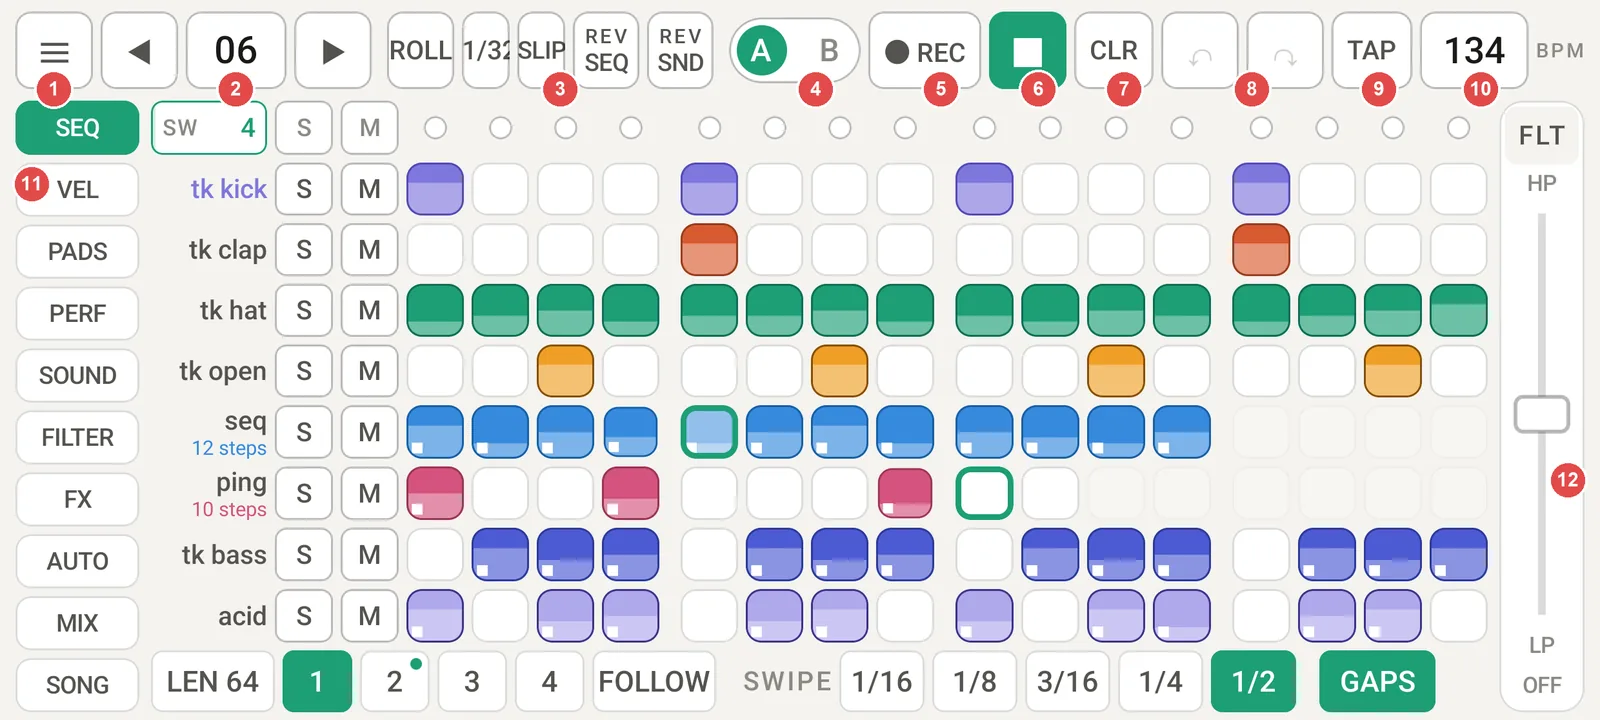
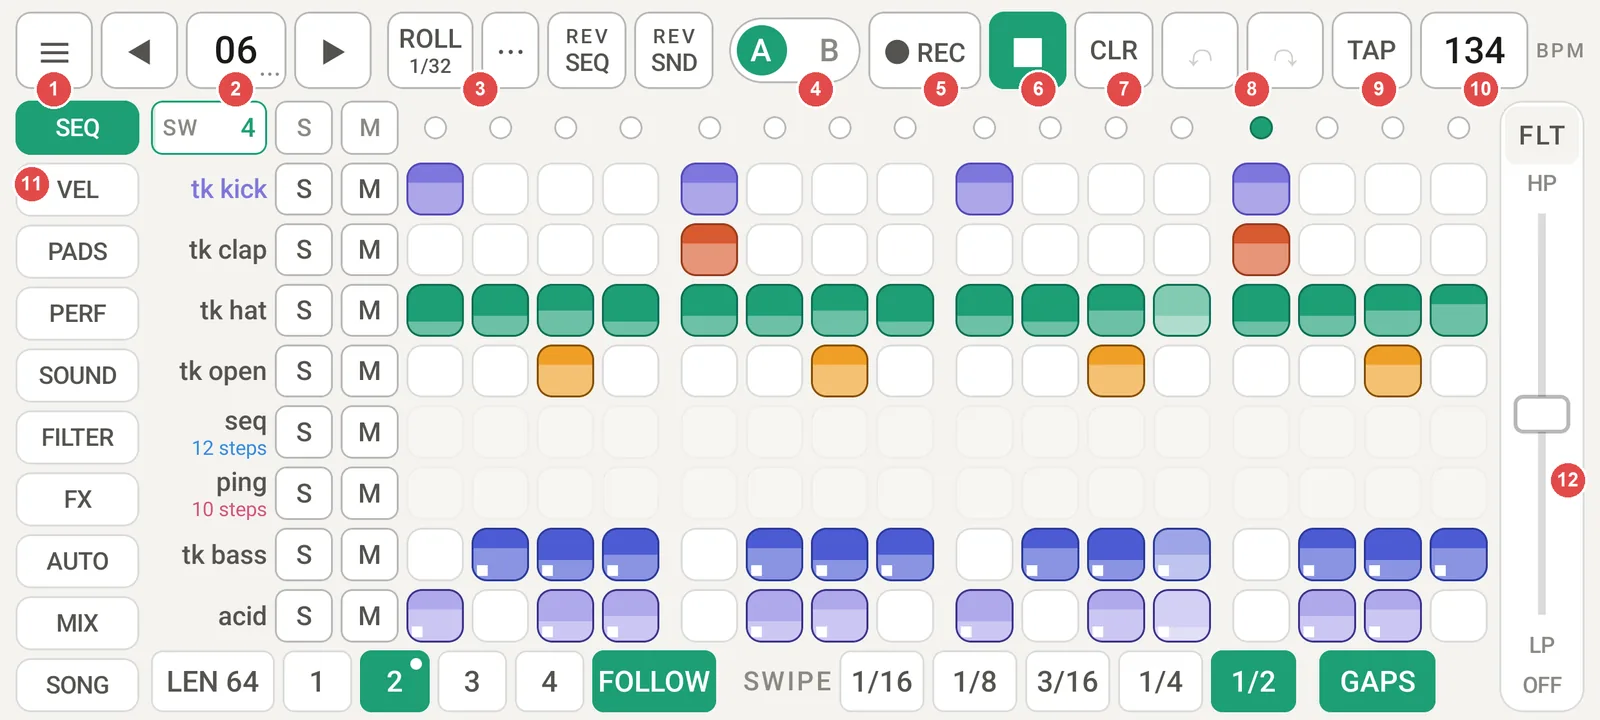
説明書: スマホの画面の見直し（≡ と Settings…・パターンの一覧・PADS の長押しと ERASE）・スマホの画像
Claude-Session: https://claude.ai/code/session_014nrG8LAda3EPv8TQp5hzGz

diff --git a/dbr1/manual/ja.html b/dbr1/manual/ja.html
@@ -44,7 +44,7 @@
 <tr><th class="n">#</th><th>名前</th><th>はたらき</th></tr>
 <tr><td class="n"><span class="num">1</span></td><td>ロゴ</td><td>タップでメニュー: この説明書（<b>Manual</b>）、デモソング（<b>Demo songs…</b>）、ジャンルのテンプレート（<b>Templates…</b>）、設定（<b>Settings…</b>）、このアプリについて（<b>About</b>）。<b>Settings…</b> には、MIDI の設定（MIDI…）・オーディオの入出力（Audio I/O…）、STOP の後の PLAY を頭から / 続きから（After STOP）、再生中のパターンの切り替えのタイミング（Pattern switch）、トラック名に触れたとき・ステップを入れたときに音を鳴らすか（Sound on track tap / Sound on step input）、オートメーションの動きの表示（Animate automation）、スマートフォンと同じ配置にする（Phone layout）が、それぞれ短い説明つきで並びます。初めて起動したときは、デモ曲を聴く / テンプレートから始める / そのまま始める、を選ぶカードが出ます。メニューの先頭に、開いているプロジェクトの名前が出ます（PROJECT: …）</td></tr>
 <tr><td class="n"><span class="num">2</span></td><td>SAVE / LOAD</td><td>プロジェクト・パターン・キットの保存と読み込み（→ <a href="#save">10</a>）。LOAD の Templates… でジャンルの定番ビート（→ <a href="#templates">2</a>）、Demo songs… でデモソング（→ <a href="#demosongs">2</a>）。LOAD の先頭の <b>New project…</b> で空のプロジェクトを始めます（全パターン・ソングを空に、キットを内蔵の音に、BPM 120。先に保存するかを選べ、↶ で戻せます）。SAVE → Project の名前は、開いているプロジェクト（読み込んだ・保存したファイル、デモ曲なら曲名）の名前が最初から入るので、そのまま OK で上書きできます</td></tr>
-<tr><td class="n"><span class="num">3</span></td><td>パターン番号</td><td>◀ ▶ で切り替え（00〜99）。タップで<b>パターンの一覧</b>（10 × 10。中身のある番号は色付き、今の番号は緑。タップで切り替え。スマートフォンはタップで直接入力）。長押しでメニュー: <b>Duplicate to next empty</b>（今のパターンを次の空いた番号へ写してそこへ移る。バリエーション作りに）、コピー / ペースト / 消去、FX だけのコピー / ペースト。一覧の上にも Duplicate to next empty があります。メニューの <b>Rename…</b> でパターンに名前（「Intro」「Drop」など、12 文字まで）を付けると、パターンの一覧に出ます</td></tr>
+<tr><td class="n"><span class="num">3</span></td><td>パターン番号</td><td>◀ ▶ で切り替え（00〜99）。タップで<b>パターンの一覧</b>（10 × 10。中身のある番号は色付き、今の番号は緑。タップで切り替え。スマートフォンも同じ一覧が画面の真ん中に出ます）。長押しでメニュー: <b>Duplicate to next empty</b>（今のパターンを次の空いた番号へ写してそこへ移る。バリエーション作りに）、コピー / ペースト / 消去、FX だけのコピー / ペースト。一覧の上にも Duplicate to next empty があります。メニューの <b>Rename…</b> でパターンに名前（「Intro」「Drop」など、12 文字まで）を付けると、パターンの一覧に出ます</td></tr>
 <tr><td class="n"><span class="num">4</span></td><td>SEQ / MIX / AUTO / PERF / SONG</td><td>左の大きな場所に出す画面の切り替え（今の画面が点灯）。SEQ = ステップ、MIX = ミキサー（→ <a href="#mixer">ミキサー</a>）、AUTO = オートメーション（→ <a href="#automation">オートメーション</a>）、PERF = パフォーマンス画面（→ <a href="#performscreen">7</a>）、SONG = ソングの画面（→ <a href="#songscreen">8</a>）。SEQ 以外の画面では、端末の「戻る」でその画面を閉じます</td></tr>
 <tr><td class="n"><span class="num">5</span></td><td>BANK A / B</td><td>表示するトラック（A01〜A08 / B01〜B08）の切り替え。今のバンクは、トラックの並びの背景の色（A = 緑、B = 紫）と左の帯でも分かります。パッドで別のバンクのトラックを選ぶとバンクも切り替わり、スイッチと帯が少しの間光ります</td></tr>
 <tr><td class="n"><span class="num">6</span></td><td>REC</td><td>録音の待機。点灯中に再生してパッドを叩くと、ステップに記録されます（→ <a href="#rec">4</a>）</td></tr>
@@ -70,20 +70,20 @@
 <figure><img src="img/phone_overview.webp" alt="スマートフォンの画面"></figure>
 <table>
 <tr><th class="n">#</th><th>名前</th><th>はたらき</th></tr>
-<tr><td class="n"><span class="num">1</span></td><td>≡ メニュー</td><td>保存・読み込み、メトロノーム、Manual、MIDI…、Audio I/O…、Animate automation、Sound on track tap、Sound on step input、After STOP、Pattern switch、About。タブレットで Phone layout にしているときは、いちばん上の <b>Tablet layout</b> で元の配置に戻ります</td></tr>
+<tr><td class="n"><span class="num">1</span></td><td>≡ メニュー</td><td>いちばん上に開いているプロジェクトの名前（PROJECT: …）。保存・読み込み、メトロノーム、Manual、<b>Settings…</b>（MIDI…・Audio I/O…・After STOP・Pattern switch・Sound on track tap / step input・Animate automation・タブの並びを元に戻す。タブレットと同じ画面）、About。タブレットで Phone layout にしているときは、いちばん上の <b>Tablet layout</b> で元の配置に戻ります</td></tr>
 <tr><td class="n"><span class="num">2</span></td><td>パターン番号</td><td>タブレットと同じ</td></tr>
-<tr><td class="n"><span class="num">3</span></td><td>ROLL・長さ・SLIP・REV</td><td>長さはタップで 1/4 → 1/8 → 1/16 → 1/32 と切り替え</td></tr>
+<tr><td class="n"><span class="num">3</span></td><td>ROLL・⋯・REV</td><td>ROLL の下に今の長さ（SLIP が ON なら「S」）。<span class="key">⋯</span> でロールの長さ（1/4〜1/32）と SLIP を選びます</td></tr>
 <tr><td class="n"><span class="num">4〜10</span></td><td>BANK・REC・▶・CLR・↶↷・TAP・BPM</td><td>タブレットと同じ</td></tr>
-<tr><td class="n"><span class="num">11</span></td><td>画面の切り替え</td><td>SEQ（ステップ）/ VEL / PADS / PERF（パフォーマンス画面、→ <a href="#performscreen">7</a>）/ SOUND / FILTER / FX / AUTO（オートメーション）/ MIX（ミキサー）/ SONG。<b>長押し（振動）して上下にドラッグ</b>すると並びを入れ替えられます（ジャンルや作り方に合わせて。端末に保存、≡ の「Reset tab order」で元の並びに）。端末の「戻る」は、SEQ 以外の画面なら SEQ に戻り、SEQ のときはアプリを閉じます</td></tr>
+<tr><td class="n"><span class="num">11</span></td><td>画面の切り替え</td><td>SEQ（ステップ）/ VEL / PADS / PERF（パフォーマンス画面、→ <a href="#performscreen">7</a>）/ SOUND / FILTER / FX / AUTO（オートメーション）/ MIX（ミキサー）/ SONG。<b>長押し（振動）して上下にドラッグ</b>すると並びを入れ替えられます（ジャンルや作り方に合わせて。端末に保存、≡ → Settings… の Tab order の Reset で元の並びに）。端末の「戻る」は、SEQ 以外の画面なら SEQ に戻り、SEQ のときはアプリを閉じます</td></tr>
 <tr><td class="n"><span class="num">12</span></td><td>FLT</td><td>全体フィルター / USER（PERF 以外のどの画面でも使えます）</td></tr>
 </table>
 <div class="cols">
-<figure><img src="img/phone_pads.webp" alt="PADS 画面"><figcaption>PADS: 16 個のパッド</figcaption></figure>
+<figure><img src="img/phone_pads.webp" alt="PADS 画面"><figcaption>PADS: 16 個のパッド。止まっているときの長押しで音のメニュー（Sounds… / Record / Generate… など）、下の ERASE を押さえたままパッドを押さえると、そのトラックの鳴った所を消します</figcaption></figure>
 <figure><img src="img/phone_sound.webp" alt="SOUND 画面"><figcaption>SOUND など: 左のリストでトラックを選んで設定</figcaption></figure>
 <figure><img src="img/phone_mix.webp" alt="MIX 画面"><figcaption>MIX: ミキサー（EQ はボタンでフェーダーと切り替え）</figcaption></figure>
 </div>
 <div class="tip">タブレットでも、ロゴのメニューの Settings… の <b>Phone layout</b> でこの配置にできます（ボタンや文字はスマートフォンより大きめ、1 画面ずつ大きく表示。PADS のパッドが大きくなるので演奏向き）。端末ごとに保存され、≡ のメニューの <b>Tablet layout</b> で戻ります。</div>
-<div class="tip">横幅の狭いスマートフォンでは、ROLL の横の <span class="key">⋯</span> にロールの長さ・SLIP・REV がまとまります。パターン番号の ◀ ▶ は省かれるので、数字をタップして入力してください。</div>
+<div class="tip">横幅の狭いスマートフォンでは、REV SEQ / REV SND も ROLL の横の <span class="key">⋯</span> にまとまります。パターン番号の ◀ ▶ は省かれるので、数字のタップで一覧から選んでください。</div>
 </section>
 
 <!-- ============================================================ -->
@@ -173,7 +173,7 @@
 <ul>
   <li><b>S（ソロ）</b>: バンクの中でソロのトラックだけを鳴らします。<b>M（ミュート）</b>: 鳴らしません。</li>
   <li><b>ALL S / ALL M</b>: 表示中のバンクをまとめて切り替えます（1 つでも ON なら全部 OFF、なければ全部 ON）。</li>
-  <li>トラック名をタップすると、そのトラックの音が鳴ります。止まっているときにステップを入れたときも、その強さで鳴ります（再生中は、シーケンサがその位置で鳴らします）。鳴らしたくないとき（演奏中に触っても邪魔にならないように）は、ロゴのメニューの Settings…（スマートフォンは ≡ のメニュー）の <b>Sound on track tap</b>・<b>Sound on step input</b> を OFF にしてください。</li>
+  <li>トラック名をタップすると、そのトラックの音が鳴ります。止まっているときにステップを入れたときも、その強さで鳴ります（再生中は、シーケンサがその位置で鳴らします）。鳴らしたくないとき（演奏中に触っても邪魔にならないように）は、ロゴのメニューの Settings…（スマートフォンは ≡ → Settings…）の <b>Sound on track tap</b>・<b>Sound on step input</b> を OFF にしてください。</li>
   <li>色は名前と同じくキット（音の設定）の一部です。プロジェクト・キットのファイルに保存され、↶ で戻せます。Swap with… で入れ替えると色も一緒に移り、LOAD の「Built-in kit」で最初の色に戻ります。</li>
 </ul>
 <h3 id="triplet">3 連符（Steps）</h3>
@@ -453,7 +453,7 @@
 <ul>
   <li><b>CHANNEL</b>: 送るチャンネル。<b>複数選べます</b>（数字のタップで足す / 外す。例: 1・3・10 に同じものを送る）。<b>ALL</b> は 1〜16 の全部（もう一度押すと 1 だけに戻る）。最後の 1 つは外せません。部品には「CH 1,3,10」「CH 1-4,10」（1〜4 と 10）のように番号で表示し、4 つ以上に分かれるときは「CH 1,3 +3」（ほかに 3 つ）と出ます。</li>
   <li><b>CC NUMBER / NOTE / PROGRAM</b>: 送る番号（0〜127）。ノートは音名も出ます（60 = C4）。</li>
-  <li><b>SEND TO</b>: 送り先。<b>複数選べます</b>（タップで足す / 外す。1 つの部品で 2 台のシンセを同時に動かす、など）。<b>MIDI OUTPUT</b>（既定）= ロゴのメニューの Settings…（スマートフォンは ≡ のメニュー）の「MIDI…」の OUT で選んだ機器。ほかに、つながっている機器を部品ごとに選べます。出力が 2 つ以上ある MIDI インターフェースは「機器名 · OUT 2」のようにポートごとに出るので、シンセ A は OUT 1、エフェクター B は OUT 2、のように分けられます。送れないとき（出力を選んでいない・機器がつながっていない）は設定の画面に赤い字で出ます。</li>
+  <li><b>SEND TO</b>: 送り先。<b>複数選べます</b>（タップで足す / 外す。1 つの部品で 2 台のシンセを同時に動かす、など）。<b>MIDI OUTPUT</b>（既定）= ロゴのメニューの Settings…（スマートフォンは ≡ → Settings…）の「MIDI…」の OUT で選んだ機器。ほかに、つながっている機器を部品ごとに選べます。出力が 2 つ以上ある MIDI インターフェースは「機器名 · OUT 2」のようにポートごとに出るので、シンセ A は OUT 1、エフェクター B は OUT 2、のように分けられます。送れないとき（出力を選んでいない・機器がつながっていない）は設定の画面に赤い字で出ます。</li>
   <li>ON RELEASE の RETURN: CC・AFTERTOUCH は触る前の値へ、CC PAN・PITCH BEND は真ん中へ戻ります（ピッチベンドのホイールのように使えます）。</li>
   <li>フェーダー・ノブの位置は保存しません（アプリを開き直すと 0、PAN・BEND は真ん中から）。同じ値は続けて送りません。</li>
   <li>シーケンスの MIDI 出力（MIDI… の OUTPUT CHANNEL）とは別に送るので、シーケンスを外部の音源で鳴らしながら、別のチャンネルのつまみを動かせます。MIDI クロックを SEND にすれば、DBR-1 のテンポに機材を合わせられます。</li>
@@ -467,13 +467,13 @@
 <section id="pattern">
 <h2>8. パターンとソング</h2>
 <div class="cols">
-<figure class="small"><img src="img/pattern_picker.webp" alt="pattern list"><figcaption>パターン番号のタップ（タブレット）: パターンの一覧。色の付いた番号に中身があります</figcaption></figure>
+<figure class="small"><img src="img/pattern_picker.webp" alt="pattern list"><figcaption>パターン番号のタップ: パターンの一覧。色の付いた番号に中身があります</figcaption></figure>
 <figure class="small"><img src="img/pattern_menu.webp" alt="パターン番号のメニュー"><figcaption>パターン番号の長押しメニュー</figcaption></figure>
 <div>
 <ul>
   <li>パターンは 00〜99 の 100 個。各パターンがステップ・ベロシティ・長さ・スウィング・テンポ・エフェクトの設定・オートメーションを持ちます（音のキットは共通）。</li>
   <li>再生中にパターン番号を変えると、既定では<b>小節（パターン）の終わり</b>で切り替わります（待っている番号は枠が光ります）。停止中はすぐ切り替わります。</li>
-  <li>ロゴのメニューの Settings…（スマホは ≡ のメニュー）の <b>Pattern switch</b> で、再生中に切り替わるタイミングを選べます（タブレットは BAR / BEAT / NOW のボタン、スマホはタップで BAR → BEAT → NOW）。<b>BAR</b>（既定）= パターンの終わりで、次のパターンの頭から / <b>BEAT</b> = 次の拍で / <b>NOW</b> = 次の 16 分で。BEAT と NOW は再生位置をそのままに中身だけ入れ替えるので、リズムが途切れません（次のパターンのほうが短ければ、その長さで折り返した位置から）。パフォーマンス画面の PATTERN ボタンと合わせると、パターンを使ったリアルタイムの演奏ができます。</li>
+  <li>ロゴのメニューの Settings…（スマホは ≡ → Settings…）の <b>Pattern switch</b> で、再生中に切り替わるタイミングを選べます（BAR / BEAT / NOW のボタン）。<b>BAR</b>（既定）= パターンの終わりで、次のパターンの頭から / <b>BEAT</b> = 次の拍で / <b>NOW</b> = 次の 16 分で。BEAT と NOW は再生位置をそのままに中身だけ入れ替えるので、リズムが途切れません（次のパターンのほうが短ければ、その長さで折り返した位置から）。パフォーマンス画面の PATTERN ボタンと合わせると、パターンを使ったリアルタイムの演奏ができます。</li>
   <li>長押しで、パターン全体のコピー / ペースト / 消去。<b>Copy FX only / Paste FX only</b> で、FX の設定（シーン A / B・センド量）だけを別のパターンへ写せます（ステップはそのまま、↶ で戻せます）。</li>
 </ul>
 </div>
@@ -481,7 +481,7 @@
 <h3>ソング（SONG タブ）</h3>
 <figure class="small"><img src="img/tab_song.webp" alt="SONG タブ"></figure>
 <ul>
-  <li><span class="key">+ ADD</span> で行を追加します（タブレットはパターンの一覧から選んで足す。行のパターン番号のタップでも一覧から選び直せます。スマートフォンは今のパターン）。各行は「パターン番号 × くり返す回数」（最大 99 行）。▲▼ で並べ替え、✕ で削除。</li>
+  <li><span class="key">+ ADD</span> で行を追加します（パターンの一覧から選んで足す。行のパターン番号のタップでも一覧から選び直せます）。各行は「パターン番号 × くり返す回数」（最大 99 行）。▲▼ で並べ替え、✕ で削除。</li>
   <li><b>PLAY: SONG</b> にしてから PLAY を押すと、並べた順に再生します。最後まで行ったときの動きは隣のボタンで選びます: <b>↻ LOOP</b> = 先頭に戻ってくり返す（既定）、<b>→ ONCE</b> = 1 回で止める。この設定はプロジェクトに保存されます。再生中に PATTERN ⇄ SONG を切り替えると、再生は止まります。</li>
 </ul>
 <h3 id="songscreen">ソングの画面（タブレット: ヘッダーの SONG）</h3>
@@ -520,7 +520,7 @@
   <li>優先の順は「動かしている最中のつまみ ＞ ロック ＞ 線 ＞ 元の値」です（メインフェーダーの USER は、その結果に足し引きします）。</li>
   <li>↶（元に戻す）で取り消せます。CLEAR（ヘッダー）はステップと一緒にロックも消し、線は残します。</li>
 </ul>
-<div class="tip">再生中は、オートメーションで動いている値が SOUND・FILTER・FX のつまみ、ミキサーの pan・EQ・フェーダー、全体フィルターのフェーダーにも表示されます。性能の低い端末で画面が重いときは、ロゴのメニューの Settings…（スマートフォンは ≡ のメニュー）の <b>Animate automation</b> を OFF にすると表示だけを止められます（音は変わりません。端末ごとの設定）。<br>ロックは Elektron のパラメーターロックに近い動きです。トラックごとの長さ（ポリリズム）を設定したトラックでは、DRAW の線の位置もそのトラックのステップで数えます。</div>
+<div class="tip">再生中は、オートメーションで動いている値が SOUND・FILTER・FX のつまみ、ミキサーの pan・EQ・フェーダー、全体フィルターのフェーダーにも表示されます。性能の低い端末で画面が重いときは、ロゴのメニューの Settings…（スマートフォンは ≡ → Settings…）の <b>Animate automation</b> を OFF にすると表示だけを止められます（音は変わりません。端末ごとの設定）。<br>ロックは Elektron のパラメーターロックに近い動きです。トラックごとの長さ（ポリリズム）を設定したトラックでは、DRAW の線の位置もそのトラックのステップで数えます。</div>
 </section>
 
 <!-- ============================================================ -->
@@ -607,7 +607,7 @@
 <!-- ============================================================ -->
 <section id="midi">
 <h2>11. MIDI と USB オーディオ</h2>
-<p>USB-MIDI の機器（パッドコントローラー・キーボード・オーディオインターフェースの MIDI 端子など）を USB でつなぐと、自動で使えるようになります。設定はロゴのメニューの Settings…（スマートフォンは ≡ のメニュー）の <b>MIDI…</b>。画面では <b>INPUT</b>（受ける）/ <b>OUTPUT</b>（送る）/ <b>CLOCK &amp; TIMING</b>（テンポを合わせる）/ CC の区分に分かれています。</p>
+<p>USB-MIDI の機器（パッドコントローラー・キーボード・オーディオインターフェースの MIDI 端子など）を USB でつなぐと、自動で使えるようになります。設定はロゴのメニューの Settings…（スマートフォンは ≡ → Settings…）の <b>MIDI…</b>。画面では <b>INPUT</b>（受ける）/ <b>OUTPUT</b>（送る）/ <b>CLOCK &amp; TIMING</b>（テンポを合わせる）/ CC の区分に分かれています。</p>
 <figure class="small"><img src="img/midi_dialog.webp" alt="MIDI の設定"></figure>
 <figure class="small"><img src="img/notes_edit.webp" alt="NOTES の EDIT"><figcaption>NOTES の EDIT…: パッドごとのノート番号（LEARN で MIDI の機器から）</figcaption></figure>
 <table>
@@ -652,7 +652,7 @@
 <h3>USB オーディオ</h3>
 <p>USB オーディオインターフェースや USB-C ヘッドホンは、挿すと自動でそちらから音が出ます。今の出力先は About（ロゴのメニュー）で確認できます。</p>
 <h3 id="multiout">マルチアウト（Audio I/O…）</h3>
-<p>出力が 3 チャンネル以上のオーディオインターフェース（例: Scarlett 6i6 は 6 チャンネル）なら、トラックごとに別の出力へ出して、ミキサーの別々のチャンネルで受けられます。ロゴのメニューの Settings…（スマートフォンは ≡ のメニュー）の <b>Audio I/O…</b> で設定します。</p>
+<p>出力が 3 チャンネル以上のオーディオインターフェース（例: Scarlett 6i6 は 6 チャンネル）なら、トラックごとに別の出力へ出して、ミキサーの別々のチャンネルで受けられます。ロゴのメニューの Settings…（スマートフォンは ≡ → Settings…）の <b>Audio I/O…</b> で設定します。</p>
 <figure class="small"><img src="img/audio_dialog.webp" alt="Audio I/O"><figcaption>Audio I/O。MULTI OUT: ON で、トラックごとに出力先を選べます</figcaption></figure>
 <table>
 <tr><th>項目</th><th>内容</th></tr>

diff --git a/dbr1/manual/en.html b/dbr1/manual/en.html
@@ -44,7 +44,7 @@
 <tr><th class="n">#</th><th>Name</th><th>What it does</th></tr>
 <tr><td class="n"><span class="num">1</span></td><td>Logo</td><td>Tap for the menu: this <b>Manual</b>, <b>Demo songs…</b>, genre <b>Templates…</b>, <b>Settings…</b> and <b>About</b>. <b>Settings…</b> gathers MIDI settings (MIDI…), audio inputs and outputs (Audio I/O…), whether PLAY after STOP starts over or continues (After STOP), when a pattern change happens while playing (Pattern switch), whether tapping a track name or entering a step plays the sound (Sound on track tap / Sound on step input), moving knobs with automation (Animate automation) and the phone-style screen (Phone layout), each with a short explanation. The first time you open DBR-1, a card lets you choose: listen to a demo song, start from a template, or start right away. The top of the menu shows the name of the open project (PROJECT: …)</td></tr>
 <tr><td class="n"><span class="num">2</span></td><td>SAVE / LOAD</td><td>Save and load projects, patterns and kits (→ <a href="#save">10</a>). LOAD → Templates… for classic genre beats (→ <a href="#templates">2</a>), Demo songs… for the demo songs (→ <a href="#demosongs">2</a>). <b>New project…</b> at the top of LOAD starts an empty project (all patterns and the song cleared, the built-in kit, 120 BPM; you can save first, and ↶ brings the old one back). SAVE → Project starts with the name of the open project (the file you loaded or saved, or the demo song's title), so OK overwrites it</td></tr>
-<tr><td class="n"><span class="num">3</span></td><td>Pattern number</td><td>◀ ▶ to change (00–99). Tap for the <b>pattern list</b> (10 × 10; numbers with content are tinted, the current one is green; tap to switch. On phones, tap to type a number). Long-press for the menu: <b>Duplicate to next empty</b> (copies the current pattern to the next empty number and moves there — handy for variations), copy / paste / clear, and copy / paste FX only. The list has Duplicate to next empty too. <b>Rename…</b> in the menu names a pattern (“Intro”, “Drop”…, up to 12 characters); the name shows in the pattern list</td></tr>
+<tr><td class="n"><span class="num">3</span></td><td>Pattern number</td><td>◀ ▶ to change (00–99). Tap for the <b>pattern list</b> (10 × 10; numbers with content are tinted, the current one is green; tap to switch. Phones show the same list in the middle of the screen). Long-press for the menu: <b>Duplicate to next empty</b> (copies the current pattern to the next empty number and moves there — handy for variations), copy / paste / clear, and copy / paste FX only. The list has Duplicate to next empty too. <b>Rename…</b> in the menu names a pattern (“Intro”, “Drop”…, up to 12 characters); the name shows in the pattern list</td></tr>
 <tr><td class="n"><span class="num">4</span></td><td>SEQ / MIX / AUTO / PERF / SONG</td><td>Chooses what the large area on the left shows (the current one lights up). SEQ = steps, MIX = mixer (→ <a href="#mixer">Mixer</a>), AUTO = automation (→ <a href="#automation">Automation</a>), PERF = performance screen (→ <a href="#performscreen">7</a>), SONG = song screen (→ <a href="#songscreen">8</a>). On any screen other than SEQ, the device Back button closes that screen</td></tr>
 <tr><td class="n"><span class="num">5</span></td><td>BANK A / B</td><td>Shows tracks A01–A08 or B01–B08. The current bank also shows as the tint behind the tracks (A = green, B = purple) and the stripe on their left. Hitting a pad of the other bank switches the bank too, and the switch and stripe flash briefly</td></tr>
 <tr><td class="n"><span class="num">6</span></td><td>REC</td><td>Arms recording. Pads you hit while playing are recorded (→ <a href="#rec">4</a>)</td></tr>
@@ -70,20 +70,20 @@
 <figure><img src="img/phone_overview.webp" alt="Phone screen"></figure>
 <table>
 <tr><th class="n">#</th><th>Name</th><th>What it does</th></tr>
-<tr><td class="n"><span class="num">1</span></td><td>≡ menu</td><td>Save / load, Metronome, Manual, MIDI, Audio I/O, Animate automation, Sound on track tap, Sound on step input, After STOP, Pattern switch, About. On a tablet set to Phone layout, <b>Tablet layout</b> at the top switches back</td></tr>
+<tr><td class="n"><span class="num">1</span></td><td>≡ menu</td><td>The name of the open project at the top (PROJECT: …). Save / load, Metronome, Manual, <b>Settings…</b> (MIDI…, Audio I/O…, After STOP, Pattern switch, Sound on track tap / step input, Animate automation, resetting the tab order — the same screen as on tablets), About. On a tablet set to Phone layout, <b>Tablet layout</b> at the top switches back</td></tr>
 <tr><td class="n"><span class="num">2</span></td><td>Pattern number</td><td>Same as on the tablet</td></tr>
-<tr><td class="n"><span class="num">3</span></td><td>ROLL, length, SLIP, REV</td><td>Tap the length to cycle 1/4 → 1/8 → 1/16 → 1/32</td></tr>
+<tr><td class="n"><span class="num">3</span></td><td>ROLL, ⋯, REV</td><td>ROLL shows the current length below it (“S” when SLIP is on). <span class="key">⋯</span> picks the roll length (1/4–1/32) and SLIP</td></tr>
 <tr><td class="n"><span class="num">4–10</span></td><td>BANK, REC, ▶, CLR, ↶↷, TAP, BPM</td><td>Same as on the tablet</td></tr>
-<tr><td class="n"><span class="num">11</span></td><td>Views</td><td>SEQ (steps) / VEL / PADS / PERF (performance screen, → <a href="#performscreen">7</a>) / SOUND / FILTER / FX / AUTO (automation) / MIX (mixer) / SONG. <b>Long-press a tab (it vibrates) and drag up or down</b> to reorder them to suit your genre or workflow (saved on the device; "Reset tab order" in ≡ restores the default). The device Back button returns to SEQ from any other view, and closes the app from SEQ</td></tr>
+<tr><td class="n"><span class="num">11</span></td><td>Views</td><td>SEQ (steps) / VEL / PADS / PERF (performance screen, → <a href="#performscreen">7</a>) / SOUND / FILTER / FX / AUTO (automation) / MIX (mixer) / SONG. <b>Long-press a tab (it vibrates) and drag up or down</b> to reorder them to suit your genre or workflow (saved on the device; Reset under Tab order in ≡ → Settings… restores the default). The device Back button returns to SEQ from any other view, and closes the app from SEQ</td></tr>
 <tr><td class="n"><span class="num">12</span></td><td>FLT</td><td>Master filter / USER (available on every view except PERF)</td></tr>
 </table>
 <div class="cols">
-<figure><img src="img/phone_pads.webp" alt="PADS view"><figcaption>PADS: the 16 pads</figcaption></figure>
+<figure><img src="img/phone_pads.webp" alt="PADS view"><figcaption>PADS: the 16 pads. When stopped, long-press a pad for its sound menu (Sounds… / Record / Generate… and more); hold ERASE below and hold a pad to erase that track’s notes as they play</figcaption></figure>
 <figure><img src="img/phone_sound.webp" alt="SOUND view"><figcaption>SOUND and others: pick a track from the list on the left</figcaption></figure>
 <figure><img src="img/phone_mix.webp" alt="MIX view"><figcaption>MIX: the mixer (the EQ button swaps the faders for the EQ)</figcaption></figure>
 </div>
 <div class="tip">Tablets can use this layout too: <b>Phone layout</b> in Settings… (logo menu) shows one screen at a time with larger buttons and text (the PADS screen gets big pads for playing). It is saved per device; <b>Tablet layout</b> in the ≡ menu switches back.</div>
-<div class="tip">On narrow phones, the roll length, SLIP and REV move into the <span class="key">⋯</span> button next to ROLL, and the pattern ◀ ▶ buttons are hidden — tap the number to type a pattern.</div>
+<div class="tip">On narrow phones, REV SEQ / REV SND also move into the <span class="key">⋯</span> button next to ROLL, and the pattern ◀ ▶ buttons are hidden — tap the number to pick from the list.</div>
 </section>
 
 <!-- ============================================================ -->
@@ -173,7 +173,7 @@
 <ul>
   <li><b>S (solo)</b> plays only the soloed tracks of the bank. <b>M (mute)</b> silences a track.</li>
   <li><b>ALL S / ALL M</b> switch the whole bank on screen (if any is on, all go off; otherwise all go on).</li>
-  <li>Tapping a track name plays that track's sound. Entering a step while stopped plays it too, at the step's velocity (while playing, the sequencer plays it in time). To keep them silent — for example to select tracks while performing — turn off <b>Sound on track tap</b> and <b>Sound on step input</b> in Settings… (logo menu; ≡ menu on phones).</li>
+  <li>Tapping a track name plays that track's sound. Entering a step while stopped plays it too, at the step's velocity (while playing, the sequencer plays it in time). To keep them silent — for example to select tracks while performing — turn off <b>Sound on track tap</b> and <b>Sound on step input</b> in Settings… (logo menu; ≡ → Settings… on phones).</li>
   <li>The color belongs to the kit, like the name. It is saved in project and kit files and can be undone with ↶. Swap with… moves the color along, and LOAD → "Built-in kit" restores the original colors.</li>
 </ul>
 <h3 id="triplet">Triplets (Steps)</h3>
@@ -467,13 +467,13 @@
 <section id="pattern">
 <h2>8. Patterns and songs</h2>
 <div class="cols">
-<figure class="small"><img src="img/pattern_picker.webp" alt="pattern list"><figcaption>Tap the pattern number (tablets): the pattern list. Tinted numbers have content</figcaption></figure>
+<figure class="small"><img src="img/pattern_picker.webp" alt="pattern list"><figcaption>Tap the pattern number: the pattern list. Tinted numbers have content</figcaption></figure>
 <figure class="small"><img src="img/pattern_menu.webp" alt="Pattern menu"><figcaption>Long-press the pattern number</figcaption></figure>
 <div>
 <ul>
   <li>There are 100 patterns (00–99). Each holds steps, velocities, length, swing, tempo, effect settings and automation (the kit is shared).</li>
   <li>Changing the pattern while playing switches <b>at the end of the bar (pattern)</b> by default (the queued number is outlined). When stopped, it switches at once.</li>
-  <li><b>Pattern switch</b> in Settings… (logo menu; ≡ menu on phones) sets when the change happens while playing (BAR / BEAT / NOW buttons on tablets; tap to go BAR → BEAT → NOW on phones). <b>BAR</b> (default) = at the end of the pattern, starting the next one from the top / <b>BEAT</b> = on the next beat / <b>NOW</b> = on the next 16th step. BEAT and NOW keep the playback position and only swap the contents, so the groove never breaks (if the next pattern is shorter, it wraps at its own length). Together with the PATTERN buttons on the performance screen, you can play live with patterns.</li>
+  <li><b>Pattern switch</b> in Settings… (logo menu; ≡ → Settings… on phones) sets when the change happens while playing (BAR / BEAT / NOW buttons). <b>BAR</b> (default) = at the end of the pattern, starting the next one from the top / <b>BEAT</b> = on the next beat / <b>NOW</b> = on the next 16th step. BEAT and NOW keep the playback position and only swap the contents, so the groove never breaks (if the next pattern is shorter, it wraps at its own length). Together with the PATTERN buttons on the performance screen, you can play live with patterns.</li>
   <li>Long-press to copy / paste / clear a whole pattern. <b>Copy FX only / Paste FX only</b> copy just the effect settings (scenes A / B and sends) to another pattern, leaving its steps alone (↶ undoes it).</li>
 </ul>
 </div>
@@ -481,7 +481,7 @@
 <h3>Song (SONG tab)</h3>
 <figure class="small"><img src="img/tab_song.webp" alt="SONG tab"></figure>
 <ul>
-  <li><span class="key">+ ADD</span> adds a row (on tablets, pick the pattern from the pattern list; tap a row's pattern number to pick it again. On phones it adds the current pattern). Each row is “pattern × repeats” (up to 99 rows). ▲▼ reorder, ✕ deletes.</li>
+  <li><span class="key">+ ADD</span> adds a row (pick the pattern from the pattern list; tap a row's pattern number to pick it again). Each row is “pattern × repeats” (up to 99 rows). ▲▼ reorder, ✕ deletes.</li>
   <li>With <b>PLAY: SONG</b>, PLAY plays the rows in order. The button next to it sets what happens at the end: <b>↻ LOOP</b> = back to the top and repeat (default), <b>→ ONCE</b> = play once and stop. This is saved with the project. Switching between PATTERN and SONG while playing stops playback.</li>
 </ul>
 <h3 id="songscreen">Song screen (tablet: SONG in the header)</h3>
@@ -520,7 +520,7 @@
   <li>Priority: a control you are moving now &gt; lock &gt; line &gt; normal value (the main fader's USER adds to or subtracts from the result).</li>
   <li>Undo (↶) works. CLEAR in the header clears locks along with the steps and keeps lines.</li>
 </ul>
-<div class="tip">While playing, the values moved by automation also show on the SOUND, FILTER and FX knobs, the mixer's pan, EQ and faders, and the master filter fader. If the screen feels slow on a less powerful device, turn <b>Animate automation</b> OFF in Settings… (logo menu; ≡ menu on phones) to stop only the display (the sound does not change; saved per device).<br>Locks work much like Elektron's parameter locks. On a track with its own length (polyrhythm), DRAW positions follow that track's steps.</div>
+<div class="tip">While playing, the values moved by automation also show on the SOUND, FILTER and FX knobs, the mixer's pan, EQ and faders, and the master filter fader. If the screen feels slow on a less powerful device, turn <b>Animate automation</b> OFF in Settings… (logo menu; ≡ → Settings… on phones) to stop only the display (the sound does not change; saved per device).<br>Locks work much like Elektron's parameter locks. On a track with its own length (polyrhythm), DRAW positions follow that track's steps.</div>
 </section>
 
 <!-- ============================================================ -->
@@ -607,7 +607,7 @@
 <!-- ============================================================ -->
 <section id="midi">
 <h2>11. MIDI and USB audio</h2>
-<p>Connect a USB-MIDI device (pad controller, keyboard, the MIDI ports of an audio interface, …) and DBR-1 uses it automatically. Settings are under <b>MIDI…</b> in Settings… (logo menu; ≡ menu on phones). The screen is grouped into <b>INPUT</b>, <b>OUTPUT</b>, <b>CLOCK &amp; TIMING</b> and CC.</p>
+<p>Connect a USB-MIDI device (pad controller, keyboard, the MIDI ports of an audio interface, …) and DBR-1 uses it automatically. Settings are under <b>MIDI…</b> in Settings… (logo menu; ≡ → Settings… on phones). The screen is grouped into <b>INPUT</b>, <b>OUTPUT</b>, <b>CLOCK &amp; TIMING</b> and CC.</p>
 <figure class="small"><img src="img/midi_dialog.webp" alt="MIDI settings"></figure>
 <figure class="small"><img src="img/notes_edit.webp" alt="NOTES EDIT"><figcaption>NOTES EDIT…: the note for each pad (LEARN takes it from your MIDI controller)</figcaption></figure>
 <table>
@@ -652,7 +652,7 @@
 <h3>USB audio</h3>
 <p>USB audio interfaces and USB-C headphones take over the sound as soon as you plug them in. About (in the logo menu) shows the current output.</p>
 <h3 id="multiout">Multi-out (Audio I/O…)</h3>
-<p>With an audio interface that has more than 2 outputs (the Scarlett 6i6 has 6, for example), each track can go to its own output, so a mixer can take them on separate channels. Set it up under <b>Audio I/O…</b> in Settings… (logo menu; ≡ menu on phones).</p>
+<p>With an audio interface that has more than 2 outputs (the Scarlett 6i6 has 6, for example), each track can go to its own output, so a mixer can take them on separate channels. Set it up under <b>Audio I/O…</b> in Settings… (logo menu; ≡ → Settings… on phones).</p>
 <figure class="small"><img src="img/audio_dialog.webp" alt="Audio I/O"><figcaption>Audio I/O. With MULTI OUT: ON, each track can have its own output</figcaption></figure>
 <table>
 <tr><th>Item</th><th>What it does</th></tr>
